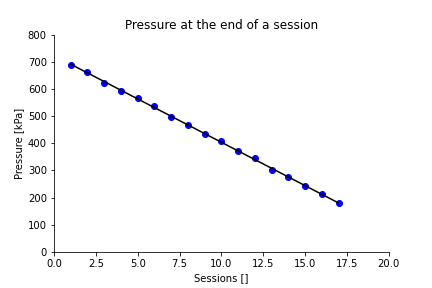
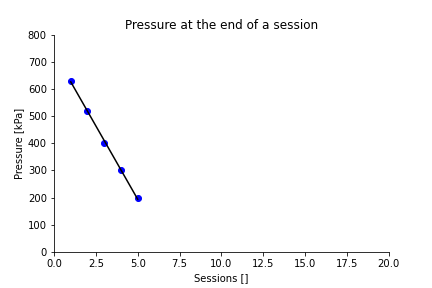
Data for the 5L compressor

diff --git a/repository/CTSCPMAUTO/analysis_L5R1.py b/repository/CTSCPMAUTO/analysis_L5R1.py
@@ -40,13 +40,13 @@ def maximal_number_of_sessions(reg):
     return (y_value - intercept) / slope
 
 # Change the filename to the name of your data file.
-data = load_data("L24R2.json")
+data = load_data("L05R1.json")
 
 # The compressor that was used in the test at Inventors' Way provides the tank
 # pressure in psi, while the script assumes the pressure is in kPa. 
 #
 # This conversion must be changes to convert from the unit of the DUT to kPa.
-conversion_factor = 6.89475729 #psi to kPa
+conversion_factor = 100 #atm to kPa
 
 # Collect the air tank pressures from the loaded data
 pressure = []
@@ -95,17 +95,17 @@ plt.xlabel('Sessions []')
 plt.ylabel('Pressure [kPa]')
 
 # Set the title
-plt.title('24L Compressor')
+plt.title('5L Compressor')
 
 # Create the plot
 plt.scatter(sessions, pressure, color='blue')
 plt.plot(sessions, pressure_pred, color='black')
-plt.xlim([0, 20])
+plt.xlim([0, 6])
 #plt.xticks([0, 5, 10, 15, 20], ['0', '5', '10', '15', '20'])
 plt.ylim([0, 800])
 
 # Show the plot
-plt.savefig('L24R2.png')
+plt.savefig('L05R1.png')
 plt.show()
 
 # Determining and printing our the maximal number of sessions that can be 

diff --git a/repository/CTSCPMAUTO/README.md b/repository/CTSCPMAUTO/README.md
@@ -69,11 +69,22 @@ When you run the script, it will produce a PNG file with the data plot and write
 
 ## Results
 
-The compressor tested had a 24L air tank. With a 24L air tank it was possible to perform up to 16 sessions, with an average air pressure decrease per session of 32kPa. The air pressure decrease as a function of session is shown in Figure 3.
+The maximum number of sessions and loss of air pressure per session is shown in Table 1.
 
-![](result.png)
+| Air Tank Size | Number of sessions | Air Pressure Loss/Session |
+|---------------|--------------------|---------------------------|
+| 5L            | 5                  | 100kPa                    |
+| 24L           | 16                 | 32kPa                     |
 
-*Figure 3: Air tank pressure at the end of a session as a function of the number of sessions performed. Measured air supply pressure is shown as a scatter plot of blue dots, the linear regression model fitted to the data is shown as the black line.*
+*Table 1: Maximal number of sessoins and air pressure loss/session*
+
+![](L24R2.png)
+
+*Figure 3: Air tank pressure at the end of a session as a function of the number of sessions performed for the 24L Compressor. Measured air supply pressure is shown as a scatter plot of blue dots, the linear regression model fitted to the data is shown as the black line.*
+
+![](L05R1.png)
+
+*Figure 4: Air tank pressure at the end of a session as a function of the number of sessions performed for the 5L Compressor. Measured air supply pressure is shown as a scatter plot of blue dots, the linear regression model fitted to the data is shown as the black line.*
 
 
 ## Discusion
